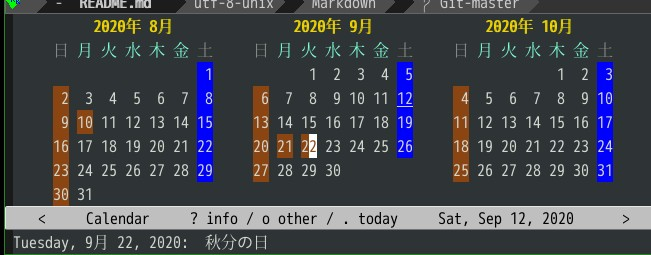
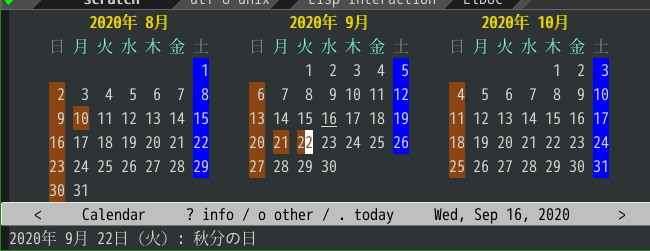
Improve settings
同じ効果ですが、より簡素と思われる設定方法です。
スクリーンショット画像もこの設定に基づくものへ差し替えました。

diff --git a/README.md b/README.md
@@ -37,24 +37,25 @@
   - "月" の表記を日本の書式とするには、次の設定を追加します。
 
   ```elisp
-  (setq calendar-month-name-array ["1月" "2月" "3月"  "4月"  "5月"  "6月"
-                                   "7月" "8月" "9月" "10月" "11月" "12月"]
-        calendar-month-header '(propertize
-                                (format "%d年 %s" year (calendar-month-name month))
+  (setq calendar-month-header '(propertize
+                                (format "%d年 %s月" year month)
                                 'font-lock-face 'calendar-month-header))
   ```
 
   - 曜日の表記を日本の書式とするには、次の設定を追加します。
 
   ```elisp
-  (setq calendar-day-header-array ["日" "月" "火" "水" "木" "金" "土"])
+  (let ((array ["日" "月" "火" "水" "木" "金" "土"]))
+    (setq calendar-day-header-array array
+          calendar-day-name-array array))
   ```
 
-  - ポイントの移動先が祝日であれば、同時にエコーエリアに表示する。
+  - ポイントの移動先が祝日であれば、同時にエコーエリアに表示してみます。
 
   ```elisp
   (defun my/japanese-holiday-show (&rest _args)
     (let* ((date (calendar-cursor-to-date t))
+           (calendar-date-display-form '((format "%s年 %s月 %s日（%s）" year month day dayname)))
            (date-string (calendar-date-string date))
            (holiday-list (calendar-check-holidays date)))
     (when holiday-list
